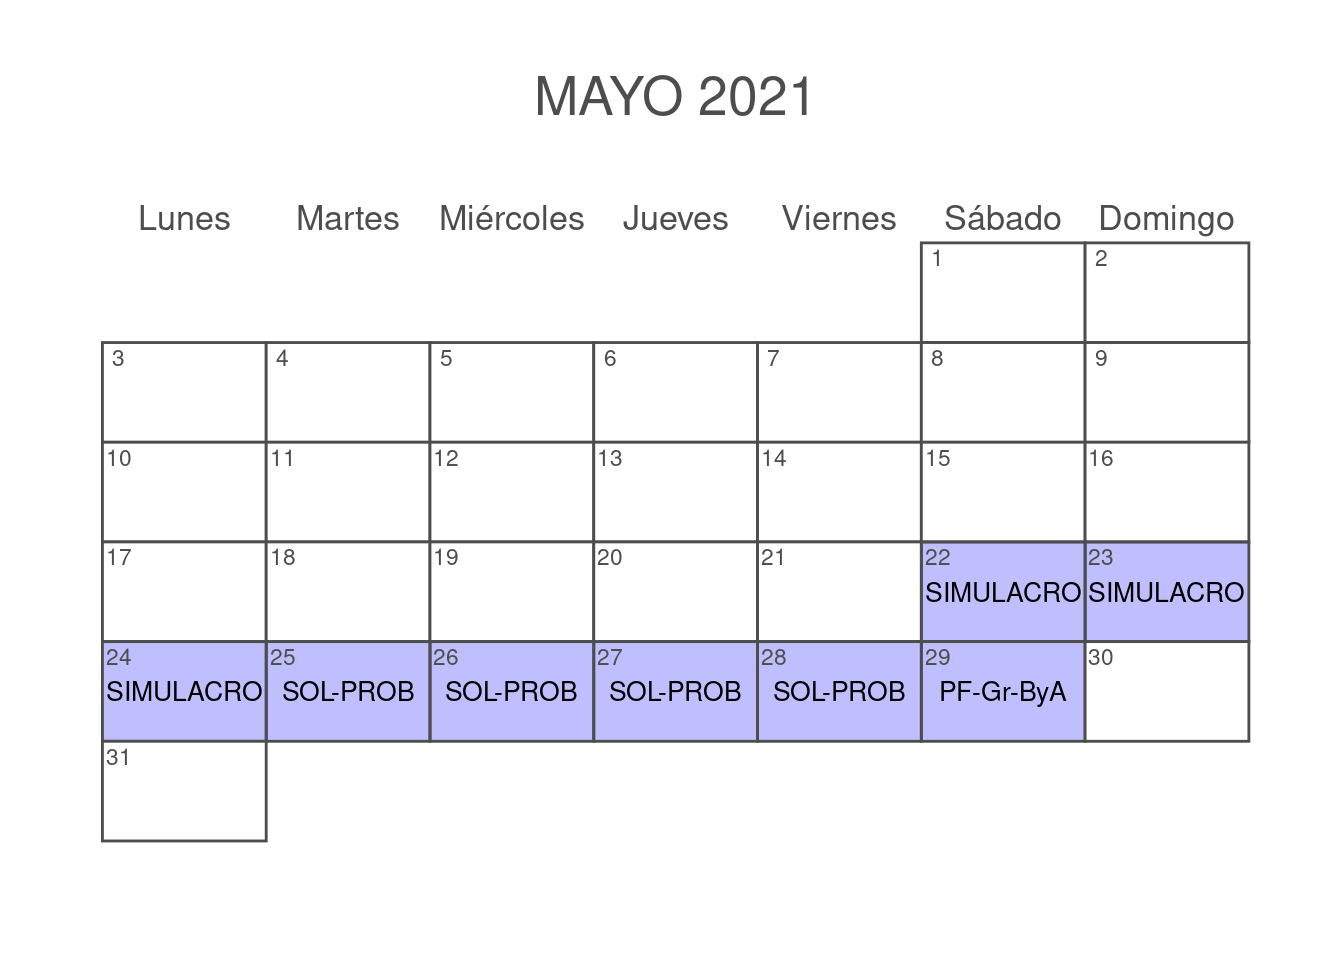
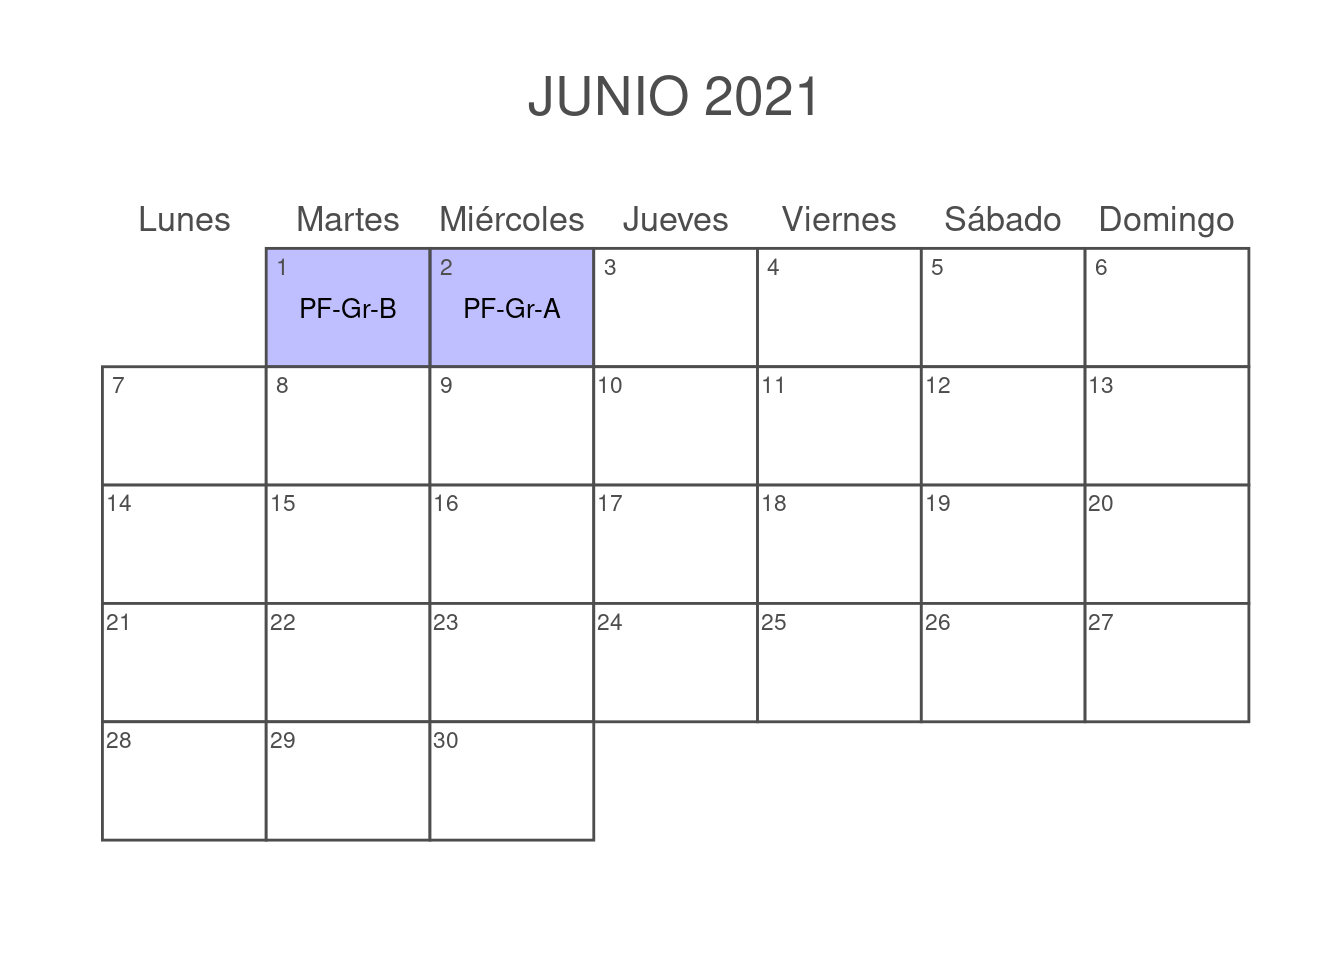
Subir Mayo27-v001

diff --git a/docs/planteo-y-solución-de-problemas.html b/docs/planteo-y-solución-de-problemas.html
@@ -24,7 +24,7 @@
 <meta name="author" content="John Jairo Estrada Álvarez" />
 
 
-<meta name="date" content="2021-05-26" />
+<meta name="date" content="2021-05-27" />
 
   <meta name="viewport" content="width=device-width, initial-scale=1" />
   <meta name="apple-mobile-web-app-capable" content="yes" />
@@ -1446,26 +1446,26 @@ V_{\text{caja}}=3.(x-3)^2
 <p>Sabemos por el enunciado que el volumen de la caja debe ser igual a <span class="math inline">\(48\)</span> pulgadas cúbicas.</p>
 <p>Por lo tanto</p>
 <p><span class="math display">\[
-48 = 3.(x-3)^2
+48 = 3.(x-6)^2
 \]</span>
 Despejando para la variable <span class="math inline">\(x\)</span> en la ecuación</p>
 <p><span class="math display">\[\begin{equation}
 \begin{split}
-48 &amp; = &amp; 3.(x-3)^2\\
-\dfrac{48}{3} &amp; = &amp; (x-3)^2\\
-16 &amp; = &amp; (x-3)^2\\
-\pm \sqrt{6} &amp; = &amp;\sqrt{(x-3)^2}\\
-\pm 4 &amp; = &amp; x-3\\
-\text{Si } \ \ 4 &amp; = &amp; x-3\\
-4+3 &amp; = &amp; x\\
-7 &amp; = &amp; x \\
+48 &amp; = &amp; 3.(x-6)^2\\
+\dfrac{48}{3} &amp; = &amp; (x-6)^2\\
+16 &amp; = &amp; (x-6)^2\\
+\pm \sqrt{6} &amp; = &amp;\sqrt{(x-6)^2}\\
+\pm 4 &amp; = &amp; x-6\\
+\text{Si } \ \ 4 &amp; = &amp; x-6\\
+4+6 &amp; = &amp; x\\
+10 &amp; = &amp; x \\
 
-\text{Si } \ \ -4 &amp; = &amp; x-3\\
--4+3 &amp; = &amp; x\\
--1 &amp; = &amp; x \\
+\text{Si } \ \ -4 &amp; = &amp; x-6\\
+-4+6 &amp; = &amp; x\\
+2 &amp; = &amp; x \\
 \end{split}
 \end{equation}\]</span></p>
-<p><strong>Respuesta</strong>: la dimensiones de la hoja de estaño es <strong>lado</strong> igual a <span class="math inline">\(7 pulgadas\)</span></p>
+<p><strong>Respuesta</strong>: la dimensiones de la hoja de estaño es <strong>lado</strong> igual a <span class="math inline">\(10 pulgadas\)</span></p>
 </div>
 <div id="modelo25-problema-del-triángulo" class="section level2">
 <h2><span class="header-section-number">6.32</span> Modelo25 (Problema del triángulo)</h2>
@@ -1762,7 +1762,7 @@ Por lo tanto existen dos puntos generados por <span class="math inline">\(x=4\)<
 <p><span class="math display">\[
 Q(4,4+\sqrt{3}), \ \ \ \ \ P(4,4-\sqrt{3})
 \]</span></p>
-<p>Como el centro esta en C(3,4), entoces el punto <span class="math inline">\(P\)</span> debe tener componente <span class="math inline">\(y\)</span> menor a <span class="math inline">\(4\)</span>. Es decir el punto <span class="math inline">\(P\)</span> es <span class="math inline">\(P(4,4-\sqrt{3})\)</span>.</p>
+<p>Como el centro esta en C(3,4), entonces el punto <span class="math inline">\(P\)</span> debe tener componente <span class="math inline">\(y\)</span> menor a <span class="math inline">\(4\)</span>. Es decir el punto <span class="math inline">\(P\)</span> es <span class="math inline">\(P(4,4-\sqrt{3})\)</span>.</p>
 <p>Además la recta que pasa por el centro del cŕrculo y el punto <span class="math inline">\(P\)</span>, es perpendicular a la recta <span class="math inline">\(L\)</span>, por lo tanto el producto de sus pendientes debe ser igual a <span class="math inline">\(1\)</span>, es decir <span class="math inline">\(m_{L}\times m_{N}=-1\)</span>.</p>
 <p>Para hallar <span class="math inline">\(m_{N}\)</span> usaremos los puntos <span class="math inline">\(C(3,4)\)</span> y <span class="math inline">\(P(4,4-\sqrt{3})\)</span>, así:</p>
 <p><span class="math display">\[

diff --git a/docs/index.html b/docs/index.html
@@ -24,7 +24,7 @@
 <meta name="author" content="John Jairo Estrada Álvarez" />
 
 
-<meta name="date" content="2021-05-26" />
+<meta name="date" content="2021-05-27" />
 
   <meta name="viewport" content="width=device-width, initial-scale=1" />
   <meta name="apple-mobile-web-app-capable" content="yes" />
@@ -519,7 +519,7 @@
 <div id="header">
 <h1 class="title">Curso básico de Matemáticas Uno</h1>
 <p class="author"><em>John Jairo Estrada Álvarez</em></p>
-<p class="date" style="margin-top: 1.5em;"><em>2021-05-26</em></p>
+<p class="date" style="margin-top: 1.5em;"><em>2021-05-27</em></p>
 </div>
 <div id="prerrequisitos" class="section level1">
 <h1><span class="header-section-number">Capítulo 1</span> Prerrequisitos</h1>
@@ -557,7 +557,7 @@ según se avanza en el desarrollo temático del curso.</p></li>
 <li><p>Segundo Parcial (25 <span class="math inline">\(\%\)</span>) - <strong>Fecha: Viernes <span class="math inline">\(26\)</span> de Marzo</strong></p></li>
 <li><p>Tercer Parcial (25 <span class="math inline">\(\%\)</span>) - <strong>Fecha: Viernes <span class="math inline">\(30\)</span> de Abril</strong></p></li>
 <li><p>Fin de clases 28 de Mayo</p></li>
-<li><p>Cuarto Parcial (ó Parcial Final) (25 <span class="math inline">\(\%\)</span>) - <strong>Fecha: Viernes <span class="math inline">\(28\)</span> de Mayo</strong></p></li>
+<li><p>Cuarto Parcial (ó Parcial Final) (25 <span class="math inline">\(\%\)</span>) - <strong>Fecha: Miércoles <span class="math inline">\(02\)</span> de Junio</strong></p></li>
 </ul>
 </div>
 <div id="grupob" class="section level3">
@@ -567,7 +567,7 @@ según se avanza en el desarrollo temático del curso.</p></li>
 <li><p>Segundo Parcial (25 <span class="math inline">\(\%\)</span>) - <strong>Fecha: Jueves <span class="math inline">\(25\)</span> de Marzo</strong></p></li>
 <li><p>Tercer Parcial (25 <span class="math inline">\(\%\)</span>) - <strong>Fecha: Jueves <span class="math inline">\(29\)</span> de Abril</strong></p></li>
 <li><p>Fin de clases 28 de Mayo</p></li>
-<li><p>Cuarto Parcial (ó Parcial Final) (25 <span class="math inline">\(\%\)</span>) - <strong>Fecha: Jueves <span class="math inline">\(27\)</span> de Mayo</strong></p></li>
+<li><p>Cuarto Parcial (ó Parcial Final) (25 <span class="math inline">\(\%\)</span>) - <strong>Fecha: Martes <span class="math inline">\(01\)</span> de Junio</strong></p></li>
 </ul>
 <pre><code>## ~~ Package calendR
 ## Visit https://r-coder.com/ for R tutorials ~~</code></pre>

diff --git a/docs/videos-de-clase.html b/docs/videos-de-clase.html
@@ -24,7 +24,7 @@
 <meta name="author" content="John Jairo Estrada Álvarez" />
 
 
-<meta name="date" content="2021-05-26" />
+<meta name="date" content="2021-05-27" />
 
   <meta name="viewport" content="width=device-width, initial-scale=1" />
   <meta name="apple-mobile-web-app-capable" content="yes" />
@@ -563,6 +563,7 @@
 <p><a href="https://ucesedu-my.sharepoint.com/:v:/g/personal/jestrada_ces_edu_co/EQR0xfCrTs5FkQt_Y6IvVhwB2um4qcBbbiRJOGfdfcIPGg?e=H0PxcB">Grupo A - Clase Viernes 21 de Mayo</a></p>
 <p><a href="https://ucesedu-my.sharepoint.com/:v:/g/personal/jestrada_ces_edu_co/Ea45XB7Xs2FPhkcGMNYMIyUB125Sm9OFT61CCNkyreicsg?e=mnGF8a">Grupo B - Clase Martes 25 de Mayo</a></p>
 <p><a href="https://ucesedu-my.sharepoint.com/:v:/g/personal/jestrada_ces_edu_co/EaoTQKM40v1Oid_c_2I_ypUBWNjg07Pr4oqMPLhyKfeGPA?e=5PguEL">Grupo A - Clase Miércoles 26 de Mayo</a></p>
+<p><a href="https://ucesedu-my.sharepoint.com/:v:/g/personal/jestrada_ces_edu_co/Ec72KqhvyPNChnB4MbMY8d8BJGV-OZ8RnBeKYE0C6P64VQ?e=ppn1uw">Grupo B - Clase Jueves 27 de Mayo</a></p>
 
 </div>
             </section>

diff --git a/docs/desarrollo-temático.html b/docs/desarrollo-temático.html
@@ -24,7 +24,7 @@
 <meta name="author" content="John Jairo Estrada Álvarez" />
 
 
-<meta name="date" content="2021-05-26" />
+<meta name="date" content="2021-05-27" />
 
   <meta name="viewport" content="width=device-width, initial-scale=1" />
   <meta name="apple-mobile-web-app-capable" content="yes" />
